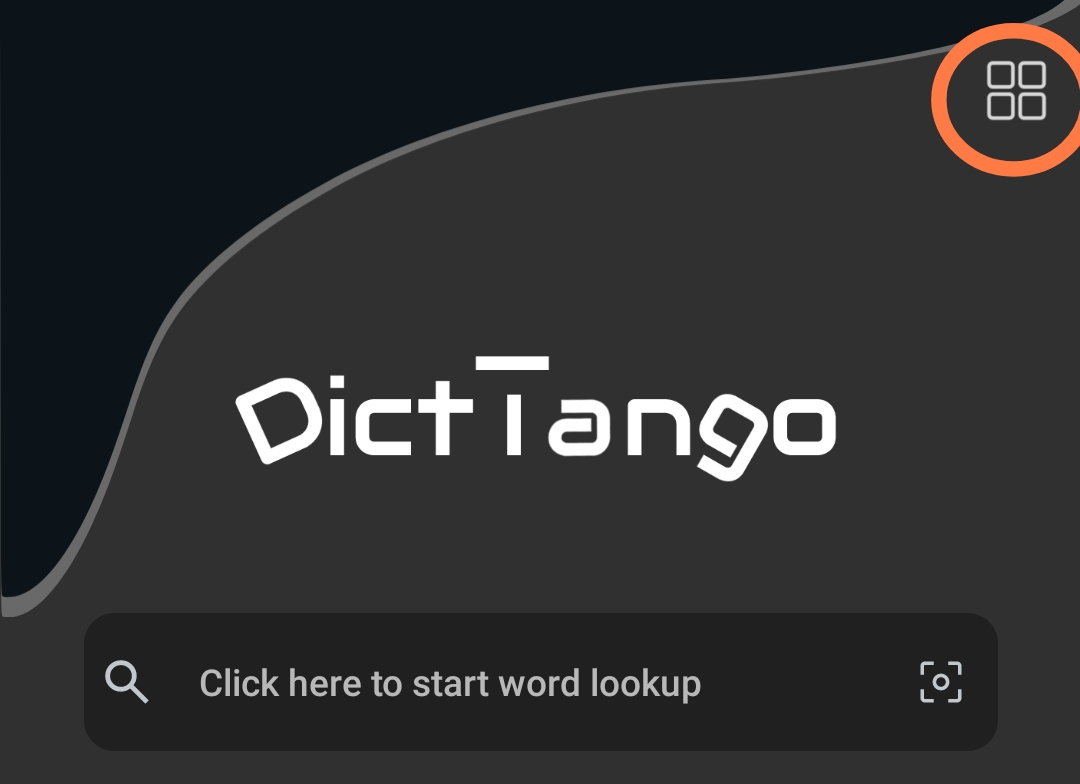
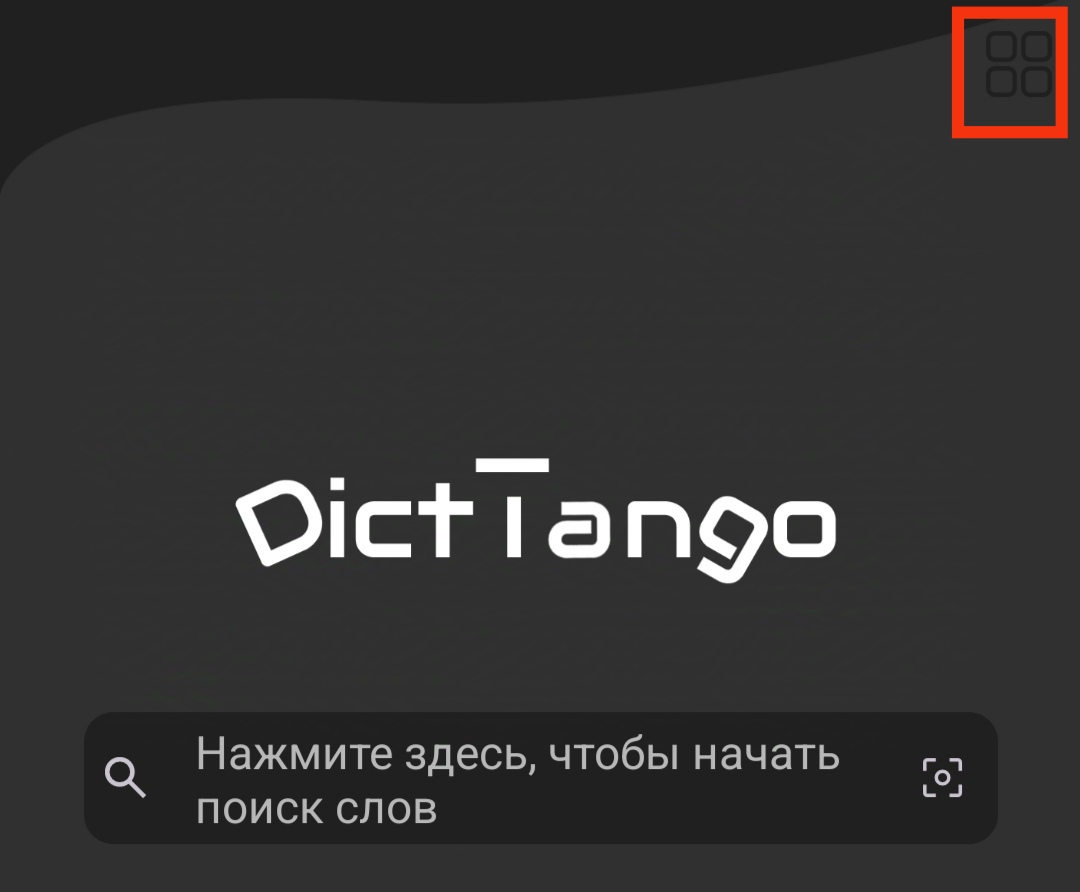
rus for dicttango

diff --git a/src/dpdict_api_dt.md b/src/dpdict_api_dt.md
@@ -4,22 +4,22 @@
 
 Преимуществом является то, что настройка достаточно быстрая и простая, а также всегда актуальна с последней версией базы данных DPD. Недостатком является то, что поиск может быть на секунду медленнее.
 
-С главной страницы выберите **Dictionary List** (**Список словарей**).
+С главной страницы выберите **Список словарей**.
 
 ![Dictionary List](pics/dpdict.net/dpdict_api_dicttango_dictionary_list.jpg)
 
-Откройте кнопку **Menu** (**Меню**) на странице списка словарей.
+Откройте кнопку **Меню** на странице списка словарей.
 
-![Dictionary List Menu](pics/dpdict.net/dpdict_api_dicttango_dictionary_list_menu.jpg)
+![Dictionary List Menu](pics/dicttango/6_dictionary_list_menu.jpg)
 
-Выберите **Add Online Dictionary** (**Добавить онлайн-словарь**).
+Выберите **Добавить онлайн-словарь**.
 
 ![Add Online Dictionary](pics/dpdict.net/dpdict_api_dicttango_add_online_dictionary.jpg)
 
-Добавьте следующую информацию в раздел **Edit Dictionary Detail** (**Редактировать информацию о словаре**):
+Добавьте следующую информацию в раздел **Изменить сведения о словаре**:
 
-Dictionary Name: www.dpdict.net/ru\
-Dictionary URL: https://www.dpdict.net/ru/gd?search=#KEYWORD#
+Название словаря: www.dpdict.net/ru\
+URL-адрес словаря: https://www.dpdict.net/ru/gd?search=#KEYWORD#
 
 ![Edit Dictionary Details](pics/dpdict.net/dpdict_api_dicttango_dictionary_detail.jpg)
 

diff --git a/src/dpdict_api_gd.md b/src/dpdict_api_gd.md
@@ -26,7 +26,7 @@
 Enable: checked\
 As Link: unchecked\
 Name: www.dpdict.net/ru\
-Address: https://dpdict.net/gd?search=%GDWORD%
+Address: https://dpdict.net/ru/gd?search=%GDWORD%
 
 (1) Перейдите на вкладку **Словари**
 
